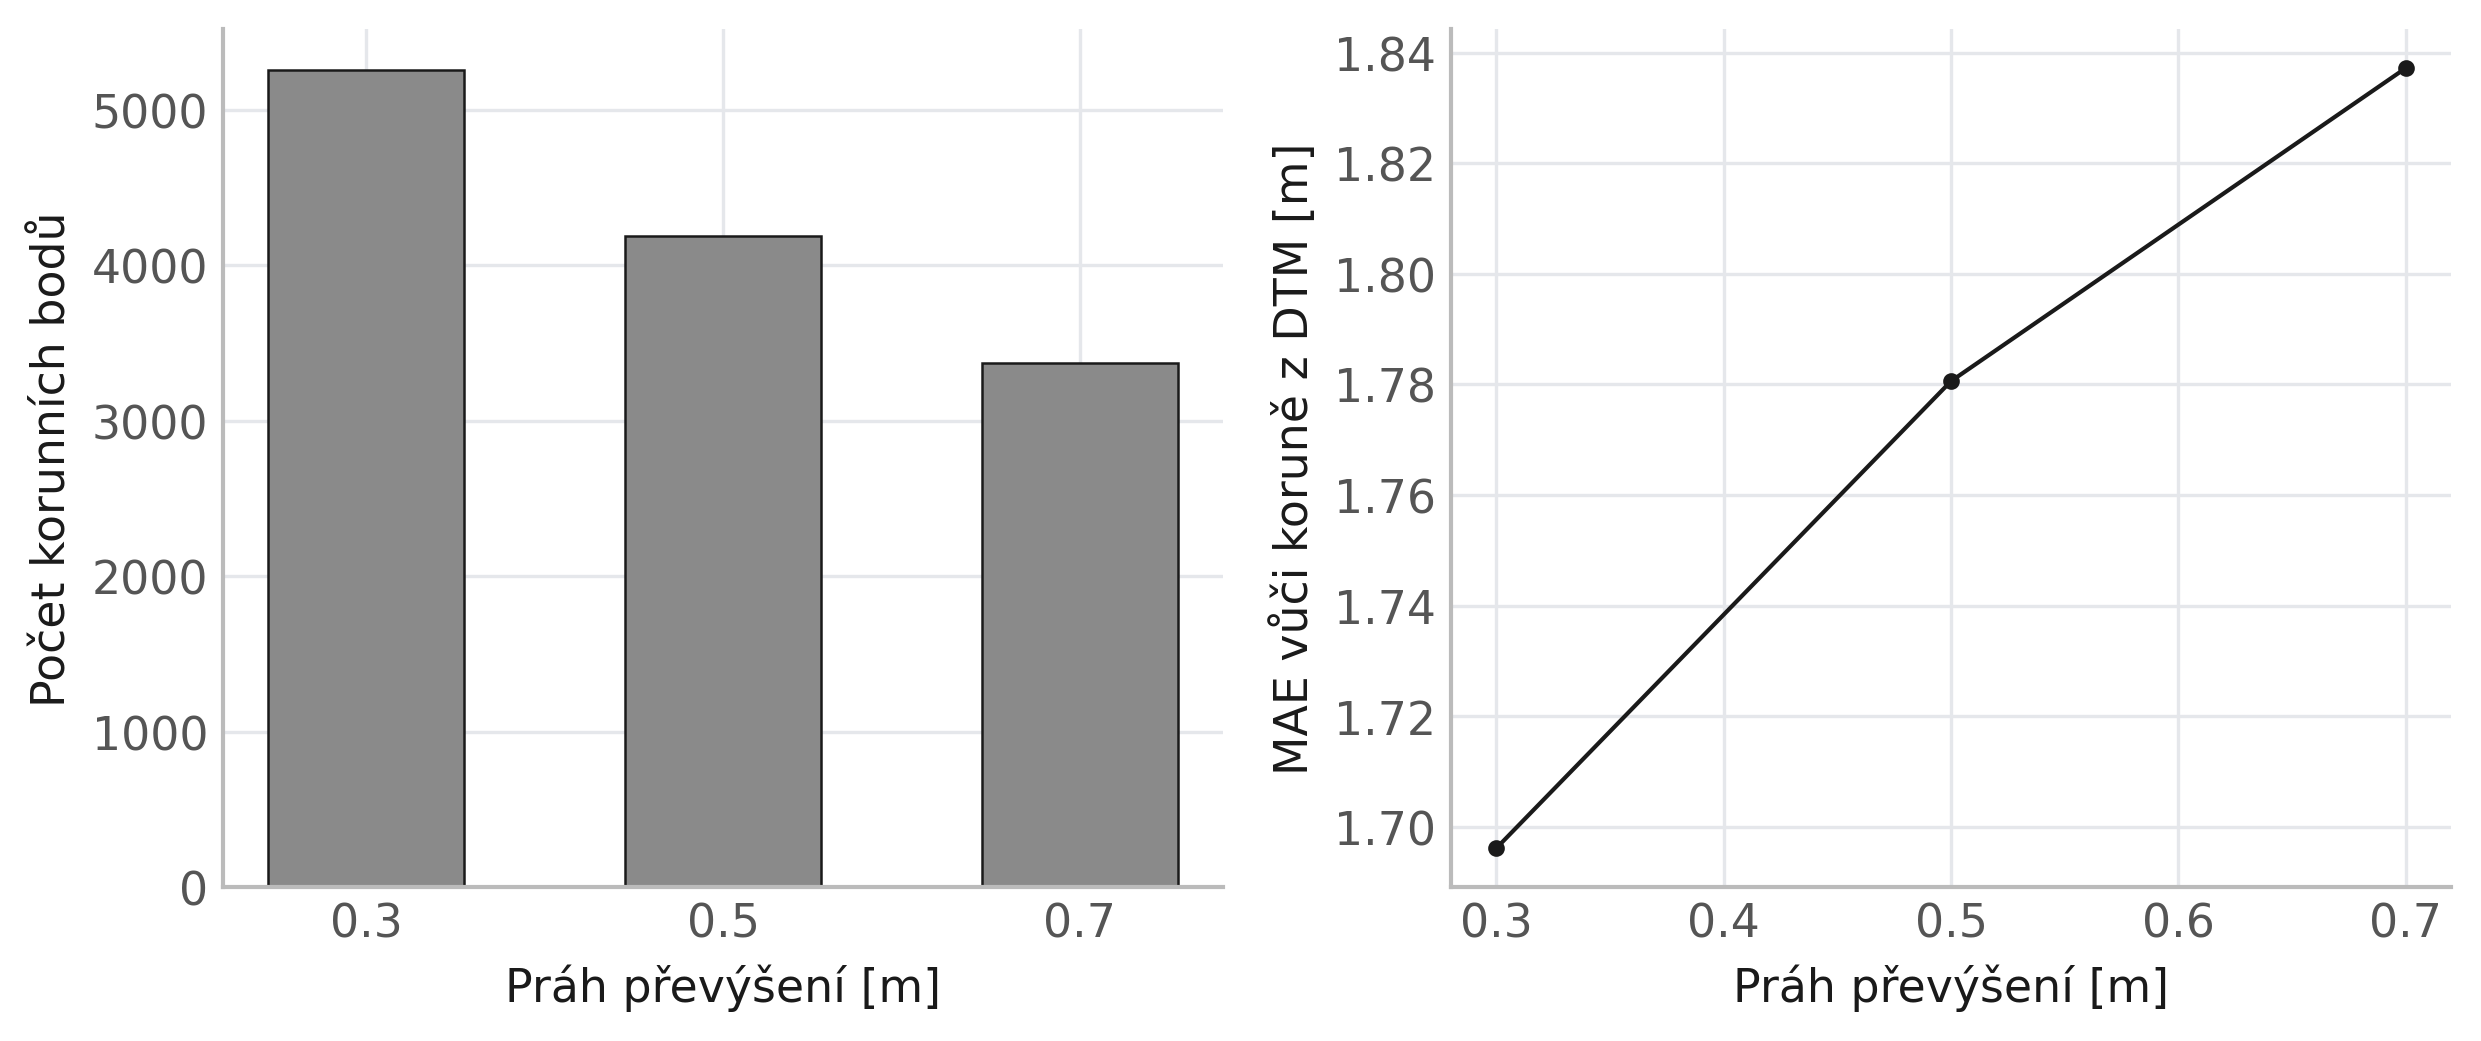
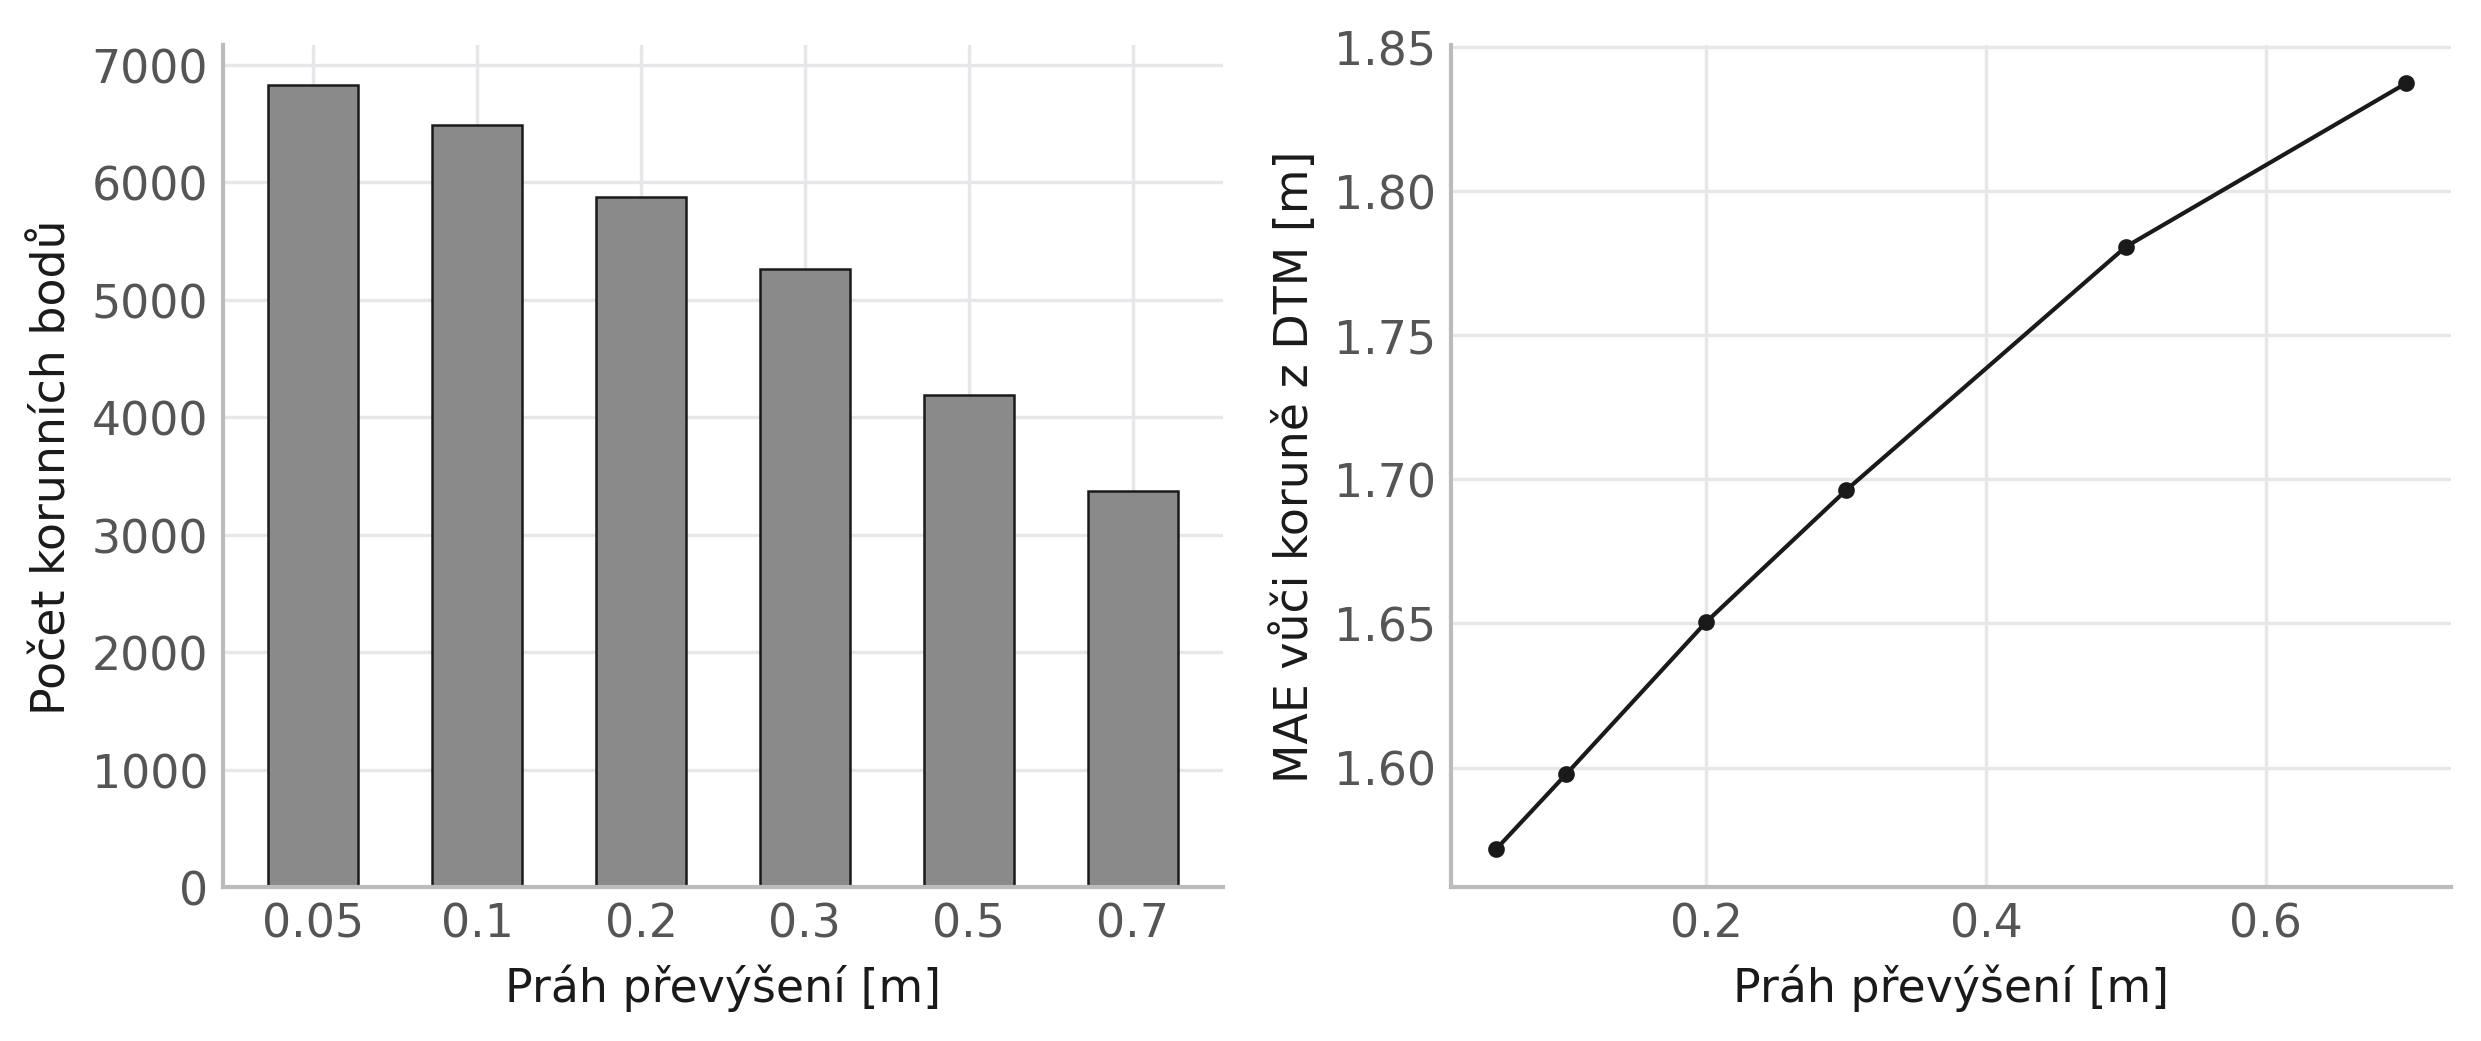
icesat second run

diff --git a/02_Geo_approach/4_2_6_calibration/icesat_calibration.py b/02_Geo_approach/4_2_6_calibration/icesat_calibration.py
@@ -35,7 +35,7 @@ LEVEE_EXCL_M  = 30.0    # reference excludes points this close to any levee
 CANOPY_MAX_M  = 2.0
 MIN_REF_PTS   = 10      # rule 4: decision requires at least this many refs
 PROM_CAP_M    = 8.0     # rule 3b: structures (bridges) above this are dropped
-THRESHOLDS    = [0.3, 0.5, 0.7]
+THRESHOLDS    = [0.05, 0.1, 0.2, 0.3, 0.5, 0.7]
 
 CREST_WIN_M   = 5.0
 GROUND_WIN_M  = 1.0
